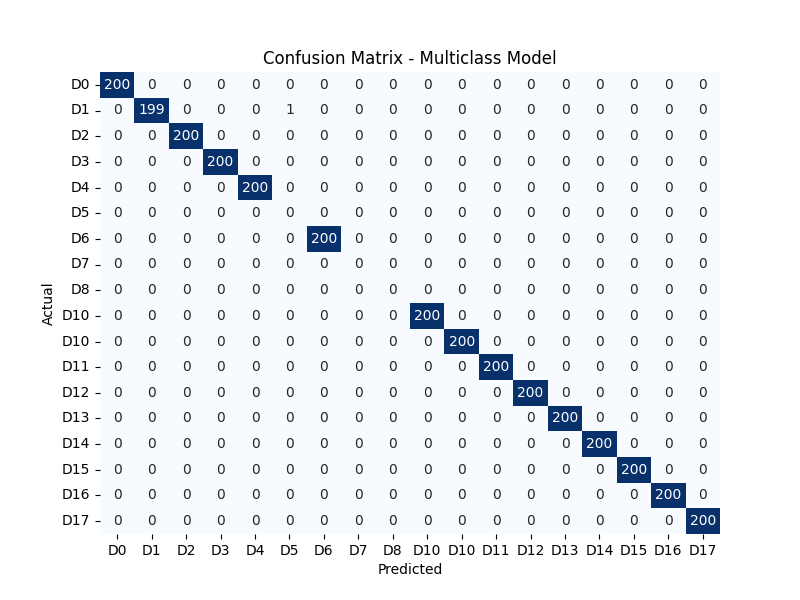
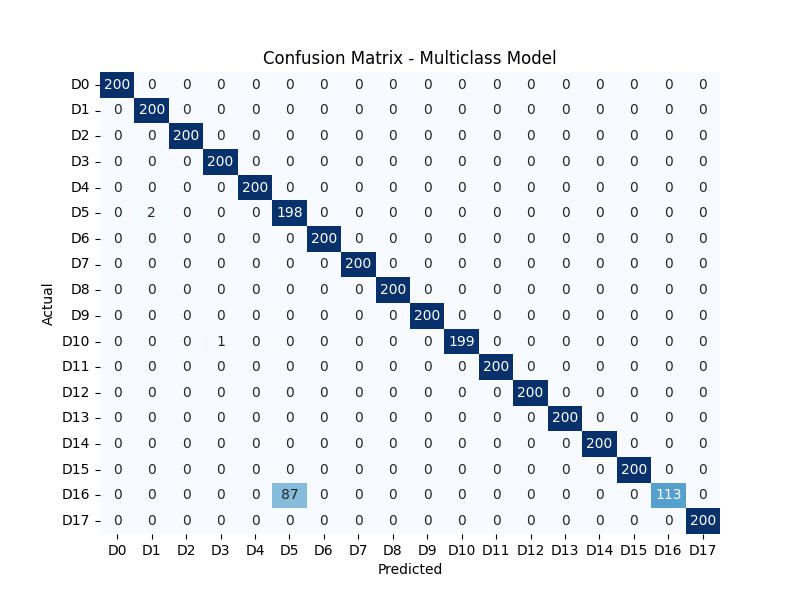
fixed some small errors in code

diff --git a/puf_classifier_v7.py b/puf_classifier_v7.py
@@ -330,7 +330,6 @@ if __name__ == "__main__":
     X5_old = create_dataset(df5_old, sequence_size)
     X6_old = create_dataset(df6_old, sequence_size)
     X7_old = create_dataset(df7_old, sequence_size)
-    X8_old = create_dataset(df8_old, sequence_size)
     X10_old = create_dataset(df10_old, sequence_size)
 
     Y1 = np.full(len(X1), 0).astype(np.float32)
@@ -349,7 +348,6 @@ if __name__ == "__main__":
     Y5_old = np.full(len(X5_old), 13).astype(np.float32)
     Y6_old = np.full(len(X6_old), 14).astype(np.float32)
     Y7_old = np.full(len(X7_old), 15).astype(np.float32)
-    Y8_old = np.full(len(X8_old), 16).astype(np.float32)
     Y10_old = np.full(len(X10_old), 17).astype(np.float32)
 
     # Create datasets for extra validation
@@ -434,11 +432,6 @@ if __name__ == "__main__":
     dev7_old_cut_labels = Y7_old[-200:]
     Y7_old = Y7_old[:-200]
     
-    dev8_old_cut_data = X8_old[-200:]
-    X8_old = X8_old[:-200]
-    dev8_old_cut_labels = Y8_old[-200:]
-    Y8_old = Y8_old[:-200]
-    
     dev10_old_cut_data = X10_old[-200:]
     X10_old = X10_old[:-200]
     dev10_old_cut_labels = Y10_old[-200:]
@@ -446,19 +439,18 @@ if __name__ == "__main__":
     
     holdout_data = np.concatenate((dev1_cut_data, dev2_cut_data, dev3_cut_data, dev4_cut_data, dev5_cut_data, dev7_cut_data,
                                    dev8_cut_data, dev10_cut_data, dev10_p2_cut_data, dev1_old_cut_data, dev2_old_cut_data, dev3_old_cut_data, 
-                                   dev4_old_cut_data, dev5_old_cut_data, dev6_old_cut_data, dev7_old_cut_data, 
-                                   dev8_old_cut_data, dev10_old_cut_data), axis=0).astype(np.float32)
+                                   dev4_old_cut_data, dev5_old_cut_data, dev6_old_cut_data, dev7_old_cut_data, dev10_old_cut_data), axis=0).astype(np.float32)
     holdout_labels = np.concatenate((dev1_cut_labels, dev2_cut_labels, dev3_cut_labels, dev4_cut_labels, 
                                      dev5_cut_labels, dev7_cut_labels, dev8_cut_labels, dev10_cut_labels, dev10_p2_cut_labels, dev1_old_cut_labels, dev2_old_cut_labels, 
                                      dev3_old_cut_labels, dev4_old_cut_labels, dev5_old_cut_labels,
-                                     dev6_old_cut_labels, dev7_old_cut_labels, dev8_old_cut_labels, 
+                                     dev6_old_cut_labels, dev7_old_cut_labels,
                                      dev10_old_cut_labels), axis=0)
 
     # Concatenate data from different CSV files
     X_dataset = np.concatenate((X1, X2, X3, X4, X5, X7, X8, X10, X10_p2, X1_old, 
-                                X2_old, X3_old, X4_old, X5_old, X6_old, X7_old, X8_old, X10_old), axis=0)
+                                X2_old, X3_old, X4_old, X5_old, X6_old, X7_old, X10_old), axis=0)
     Y_dataset = np.concatenate((Y1, Y2, Y3, Y4, Y5, Y7, Y8, Y10, Y10_p2, Y1_old, 
-                                Y2_old, Y3_old, Y4_old, Y5_old, Y6_old, Y7_old, Y8_old, Y10_old), axis=0)
+                                Y2_old, Y3_old, Y4_old, Y5_old, Y6_old, Y7_old, Y10_old), axis=0)
 
     # Train and evaluate the model
     result, model = train_and_evaluate(X_dataset, Y_dataset)
